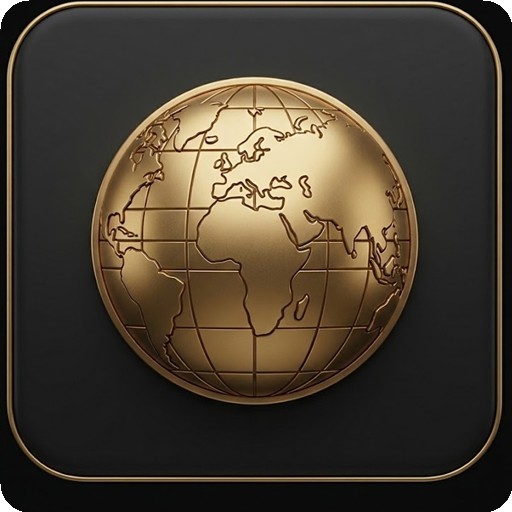
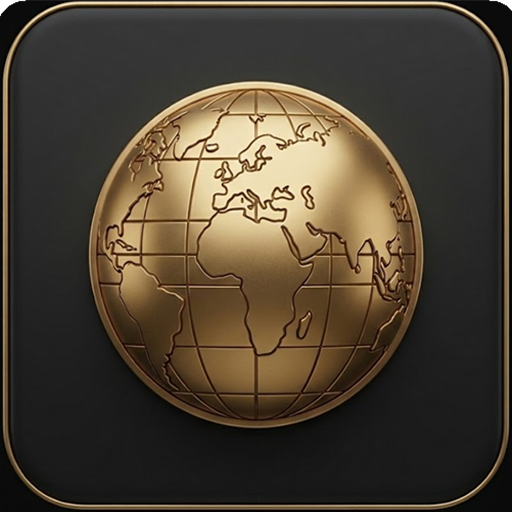
fix: 지수바 정렬·여백 조정 및 글로벌 아이콘 하단 크롭

diff --git a/site-nav.css b/site-nav.css
@@ -2,59 +2,37 @@
 
 .tm-market-ticker-wrap {
   box-sizing: border-box;
-  width: calc(100% + 52px);
-  max-width: calc(1100px + 52px);
-  margin: -2px -26px 14px;
+  width: 100%;
+  margin: 10px 0 14px;
   padding: 0;
 }
 
 .tm-market-ticker {
   box-sizing: border-box;
   display: flex;
-  align-items: stretch;
+  align-items: center;
   width: 100%;
-  min-height: 32px;
-  border: 1px solid rgba(201, 168, 76, 0.42);
-  border-top-color: rgba(212, 175, 55, 0.55);
-  border-bottom-color: rgba(120, 98, 48, 0.65);
-  background:
-    linear-gradient(180deg, rgba(22, 19, 14, 0.98) 0%, rgba(10, 9, 7, 0.99) 48%, rgba(6, 5, 4, 1) 100%);
-  box-shadow:
-    0 1px 0 rgba(212, 175, 55, 0.08) inset,
-    0 8px 22px rgba(0, 0, 0, 0.35);
+  min-height: 34px;
+  border: 1px solid var(--border);
+  border-radius: var(--radius);
+  background: var(--bg-panel);
+  box-shadow: var(--shadow);
   overflow: hidden;
-}
-
-.tm-market-ticker__fin {
-  flex: 0 0 14px;
-  align-self: stretch;
-  background: linear-gradient(180deg, #1a1610 0%, #0a0907 100%);
-  border-top: 1px solid rgba(201, 168, 76, 0.35);
-  border-bottom: 1px solid rgba(90, 74, 38, 0.55);
-}
-
-.tm-market-ticker__fin--left {
-  border-right: 1px solid rgba(201, 168, 76, 0.22);
-  clip-path: polygon(0 0, 100% 0, 72% 50%, 100% 100%, 0 100%);
-  box-shadow: 4px 0 10px rgba(0, 0, 0, 0.25);
-}
-
-.tm-market-ticker__fin--right {
-  border-left: 1px solid rgba(201, 168, 76, 0.22);
-  clip-path: polygon(28% 0, 100% 0, 100% 100%, 28% 100%, 0 50%);
-  box-shadow: -4px 0 10px rgba(0, 0, 0, 0.25);
 }
 
 .tm-market-ticker__track {
   display: flex;
   flex: 1 1 auto;
   align-items: center;
+  justify-content: flex-start;
   gap: 14px;
+  width: 100%;
   min-width: 0;
-  min-height: 30px;
-  padding: 6px 12px;
+  min-height: 34px;
+  padding: 0 12px;
   font-family: var(--font-mono);
   font-size: 11px;
+  line-height: 1;
   color: var(--text-muted);
   white-space: nowrap;
   overflow-x: auto;
@@ -300,18 +278,18 @@ body.is-kr-market-open .tm-live-badge {
 /* 스마트폰·태블릿 좁은 폭: 픽셀 고정 헤더(모든 페이지 동일) */
 @media (max-width: 768px) {
   .tm-market-ticker-wrap {
-    width: calc(100% + 28px);
-    max-width: none;
-    margin: 0 -14px 12px;
+    width: 100%;
+    margin: 8px 0 12px;
   }
 
-  .tm-market-ticker__fin {
-    flex-basis: 10px;
+  .tm-market-ticker,
+  .tm-market-ticker__track {
+    min-height: 32px;
   }
 
   .tm-market-ticker__track {
     gap: 10px;
-    padding: 5px 8px;
+    padding: 0 10px;
     font-size: 10px;
   }
 

diff --git a/hub.css b/hub.css
@@ -77,6 +77,11 @@ a.hub-card:focus-visible {
   background: none;
 }
 
+.hub-card__icon--global {
+  object-fit: cover;
+  object-position: center 44%;
+}
+
 .hub-card__emoji {
   display: grid;
   place-items: center;

diff --git a/site-nav.js b/site-nav.js
@@ -42,10 +42,7 @@
     const bar = document.createElement("div");
     bar.className = "tm-market-ticker";
     bar.setAttribute("aria-label", "실시간 시장 지표");
-    bar.innerHTML =
-      '<span class="tm-market-ticker__fin tm-market-ticker__fin--left" aria-hidden="true"></span>' +
-      '<div class="tm-market-ticker__track">시장 지표 로딩 중…</div>' +
-      '<span class="tm-market-ticker__fin tm-market-ticker__fin--right" aria-hidden="true"></span>';
+    bar.innerHTML = '<div class="tm-market-ticker__track">시장 지표 로딩 중…</div>';
     const wrap = document.createElement("div");
     wrap.className = "tm-market-ticker-wrap";
     wrap.appendChild(bar);

diff --git a/index.html b/index.html
@@ -179,7 +179,7 @@
 
         <a class="hub-card" href="./world-market.html" role="listitem">
           <img
-            class="hub-card__icon"
+            class="hub-card__icon hub-card__icon--global"
             src="./assets/icon-global.png"
             alt=""
             width="100"